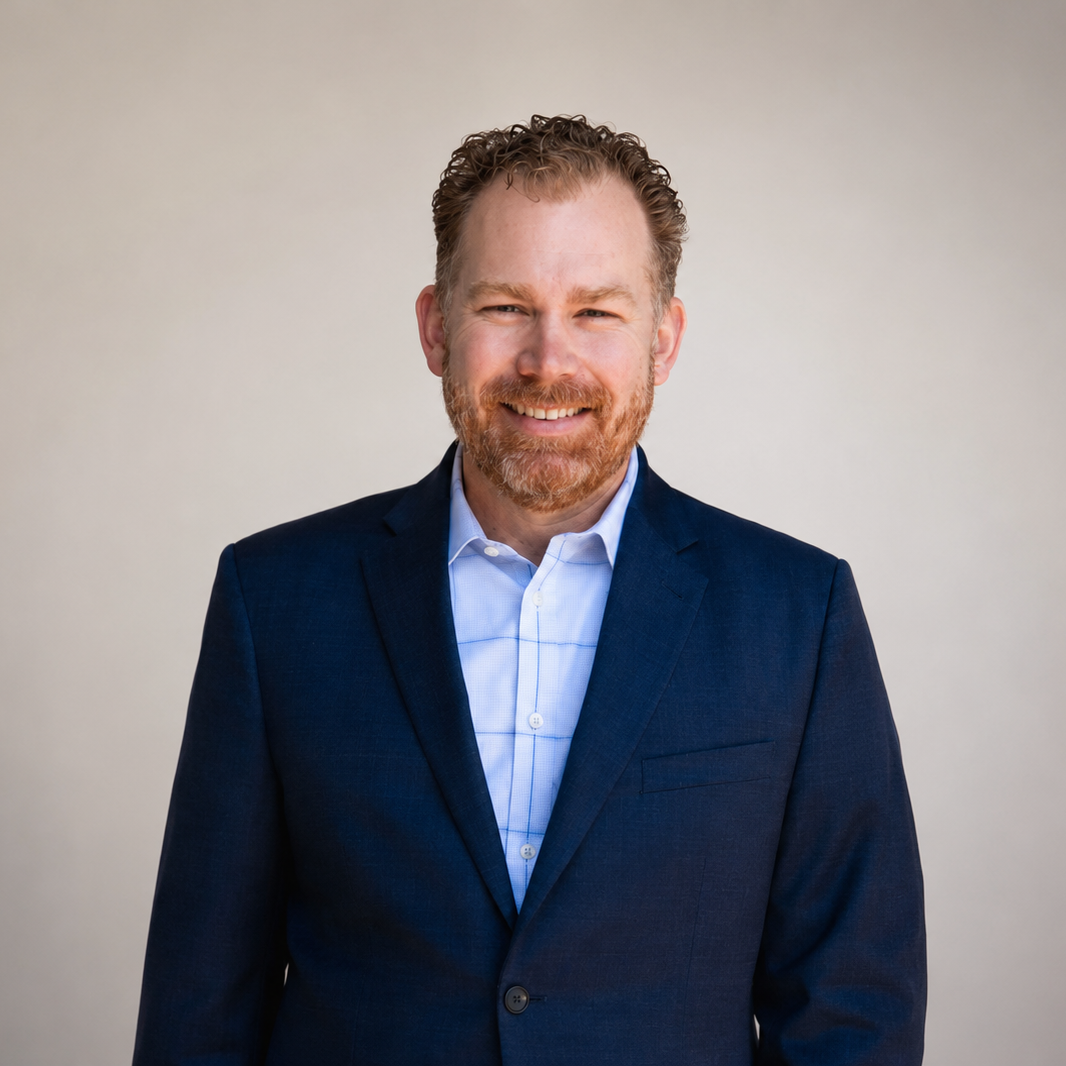
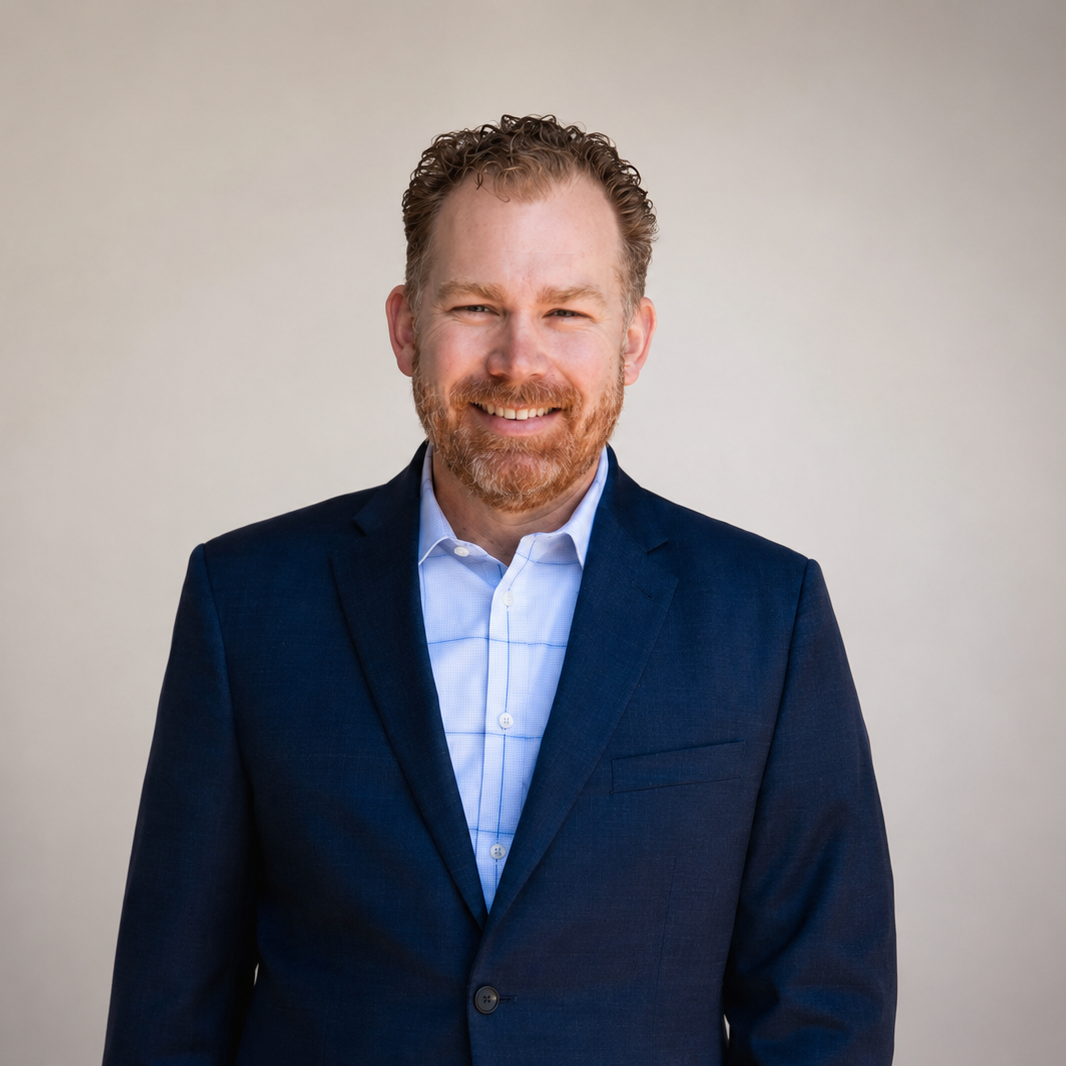
Fix mobile: show all research cards (not none); larger homepage headshot (300px); better-centered crop

diff --git a/layouts/_partials/hbx/blocks/portfolio/block.html b/layouts/_partials/hbx/blocks/portfolio/block.html
@@ -234,6 +234,10 @@
       {{ $item_key := $item.RelPermalink }}
       {{ $card_allowed_filters := index $allowed_map $item_key }}
       {{ if not $card_allowed_filters }}{{ $card_allowed_filters = slice "*" }}{{ end }}
+      {{/* Mobile "show all" default uses "*", so every card must include it */}}
+      {{ if not (in $card_allowed_filters "*") }}
+        {{ $card_allowed_filters = $card_allowed_filters | append "*" }}
+      {{ end }}
       {{ $card_allowed_filters_json := $card_allowed_filters | jsonify }}
 
       {{/* Get tags as comma-separated string */}}

diff --git a/layouts/_partials/hooks/head-end/custom-styles.html b/layouts/_partials/hooks/head-end/custom-styles.html
@@ -83,10 +83,10 @@
   @media (max-width: 639px) {
     .resume-biography .md\:col-span-4 img[alt=""],
     .resume-biography .md\:col-span-4 .rounded-full {
-      max-width: 220px !important;
-      max-height: 220px !important;
-      width: 220px !important;
-      height: 220px !important;
+      max-width: 300px !important;
+      max-height: 300px !important;
+      width: 300px !important;
+      height: 300px !important;
       margin-left: auto;
       margin-right: auto;
     }
